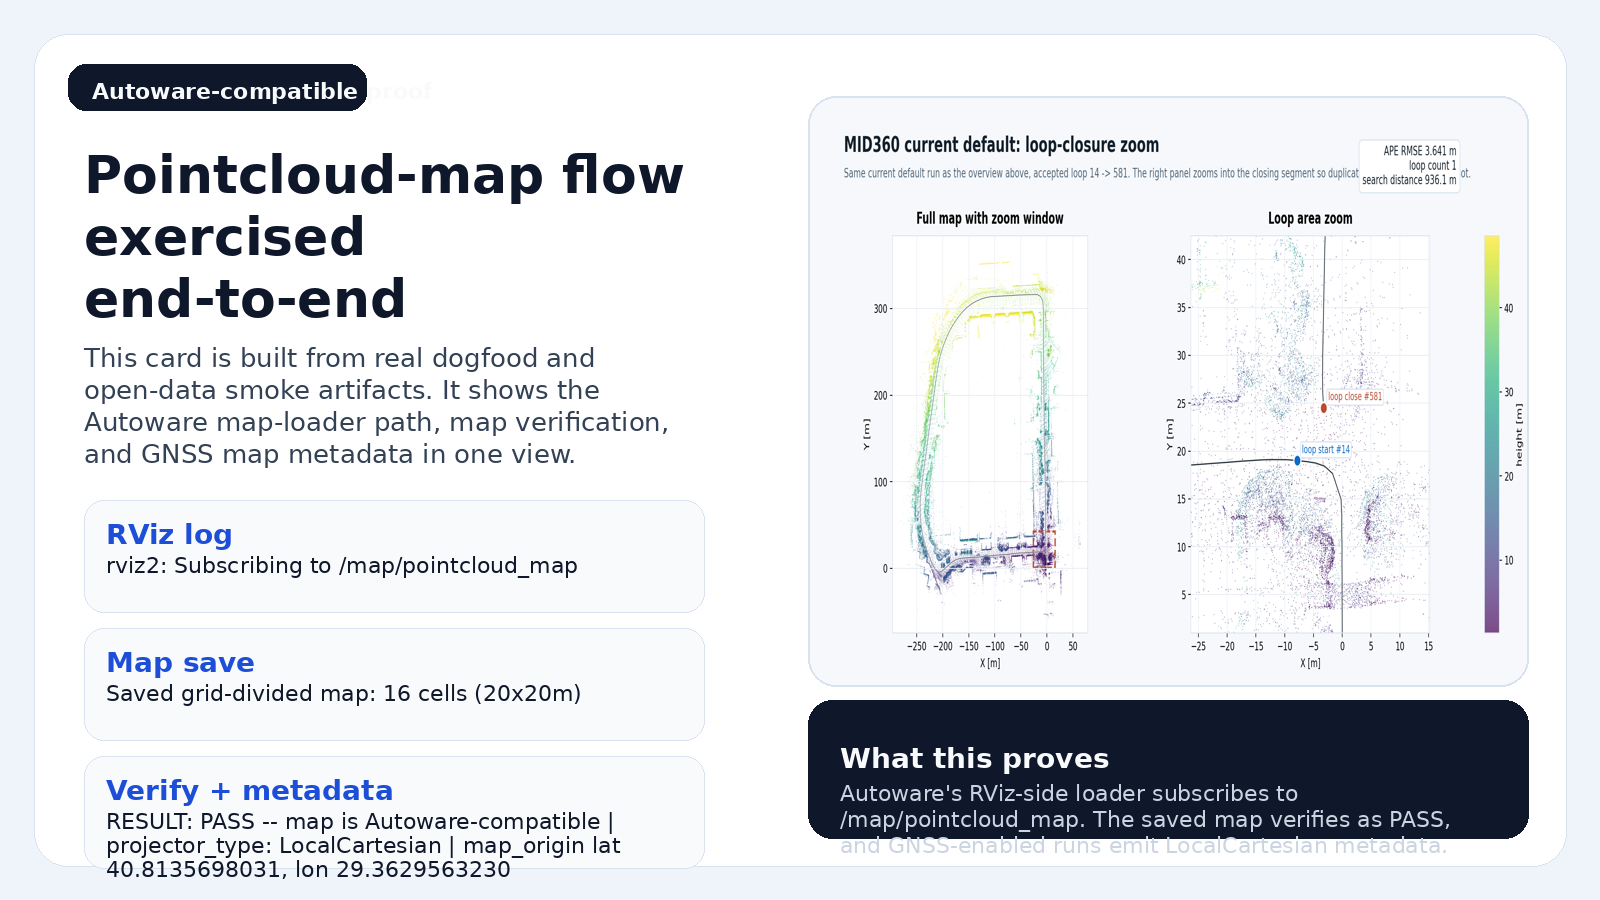
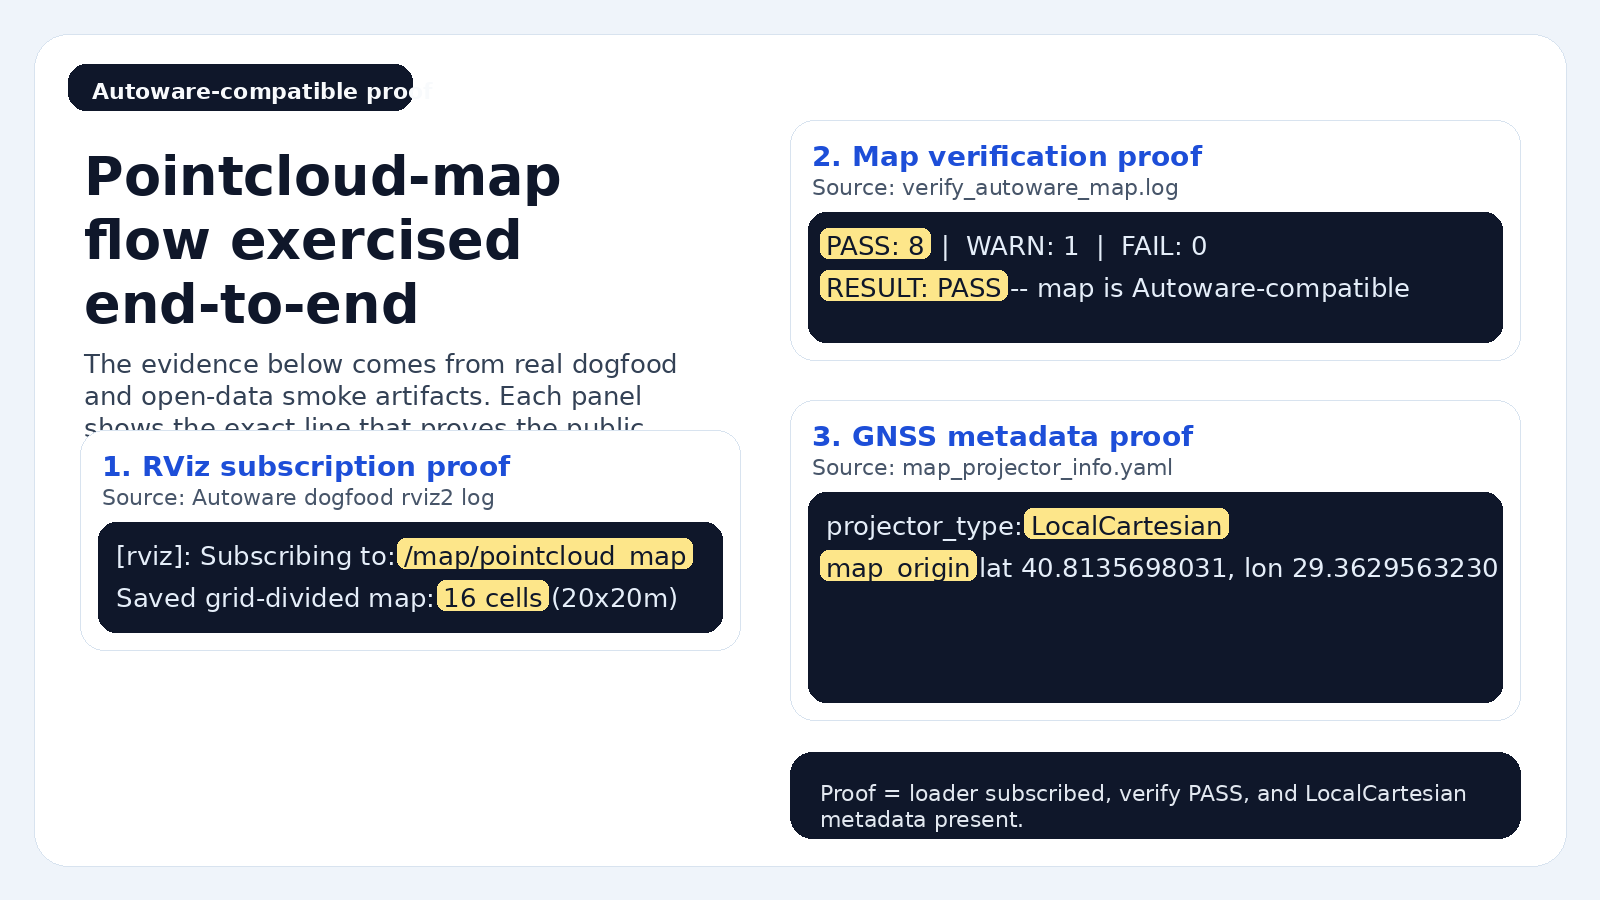
docs: clarify autoware proof image

diff --git a/scripts/generate_readme_autoware_proof_figure.py b/scripts/generate_readme_autoware_proof_figure.py
@@ -98,6 +98,75 @@ def _round_image(image: Image.Image, radius: int) -> Image.Image:
     return image
 
 
+def _draw_highlighted_line(
+    draw: ImageDraw.ImageDraw,
+    xy: tuple[int, int],
+    text: str,
+    font: ImageFont.ImageFont,
+    fill: str,
+    *,
+    highlight: str = "",
+    highlight_fill: str = "#fde68a",
+    highlight_text_fill: str = "#111827",
+    padding_x: int = 6,
+    padding_y: int = 4,
+) -> None:
+    x, y = xy
+    if highlight and highlight in text:
+        prefix, suffix = text.split(highlight, 1)
+        prefix_w = draw.textlength(prefix, font=font)
+        highlight_w = draw.textlength(highlight, font=font)
+        line_h = font.size + padding_y * 2
+        draw.rounded_rectangle(
+            (
+                x + prefix_w - padding_x,
+                y - padding_y + 2,
+                x + prefix_w + highlight_w + padding_x,
+                y + line_h - padding_y - 2,
+            ),
+            radius=8,
+            fill=highlight_fill,
+        )
+        draw.text((x, y), prefix, font=font, fill=fill)
+        draw.text((x + prefix_w, y), highlight, font=font, fill=highlight_text_fill)
+        draw.text((x + prefix_w + highlight_w, y), suffix, font=font, fill=fill)
+        return
+    draw.text((x, y), text, font=font, fill=fill)
+
+
+def _draw_code_panel(
+    draw: ImageDraw.ImageDraw,
+    rect: tuple[int, int, int, int],
+    *,
+    title: str,
+    subtitle: str,
+    lines: list[str],
+    highlights: list[str],
+    title_font: ImageFont.ImageFont,
+    body_font: ImageFont.ImageFont,
+    mono_font: ImageFont.ImageFont,
+) -> None:
+    x1, y1, x2, y2 = rect
+    draw.rounded_rectangle(rect, radius=24, fill="#ffffff", outline="#d8e3ef")
+    draw.text((x1 + 22, y1 + 20), title, font=title_font, fill="#1d4ed8")
+    draw.text((x1 + 22, y1 + 54), subtitle, font=body_font, fill="#475569")
+    code_rect = (x1 + 18, y1 + 92, x2 - 18, y2 - 18)
+    draw.rounded_rectangle(code_rect, radius=18, fill="#0f172a")
+    line_y = code_rect[1] + 18
+    for line, highlight in zip(lines, highlights):
+        _draw_highlighted_line(
+            draw,
+            (code_rect[0] + 18, line_y),
+            line,
+            mono_font,
+            "#e5eef9",
+            highlight=highlight,
+            highlight_fill="#fde68a",
+            highlight_text_fill="#0f172a",
+        )
+        line_y += mono_font.size + 16
+
+
 def _find_rviz_log(dogfood_dir: Path) -> Path:
     candidates = sorted((dogfood_dir / ".ros_log").glob("rviz2_*.log"))
     if not candidates:
@@ -146,7 +215,6 @@ def main() -> None:
     args = parse_args()
     dogfood_dir = Path(args.dogfood_dir).expanduser().resolve()
     gnss_smoke_dir = Path(args.gnss_smoke_dir).expanduser().resolve()
-    loop_zoom_path = Path(args.loop_zoom).expanduser().resolve()
     out_path = Path(args.out).expanduser().resolve()
 
     rviz_line = _extract_subscribe_line(_find_rviz_log(dogfood_dir))
@@ -156,15 +224,15 @@ def main() -> None:
 
     canvas = Image.new("RGB", (1600, 900), "#eff4fa")
     draw = ImageDraw.Draw(canvas)
-    title_font = _load_font(52, bold=True)
+    title_font = _load_font(54, bold=True)
     body_font = _load_font(26)
     body_bold_font = _load_font(28, bold=True)
-    mono_font = _load_font(22)
+    mono_font = _load_font(26)
     small_font = _load_font(22)
     badge_font = _load_font(22, bold=True)
 
     draw.rounded_rectangle((34, 34, 1566, 866), radius=34, fill="#ffffff", outline="#d8e3ef")
-    draw.rounded_rectangle((68, 64, 366, 110), radius=18, fill="#0f172a")
+    draw.rounded_rectangle((68, 64, 412, 110), radius=18, fill="#0f172a")
     draw.text((92, 78), "Autoware-compatible proof", font=badge_font, fill="#f8fafc")
 
     left_x = 84
@@ -181,56 +249,63 @@ def main() -> None:
     y += 12
     y = _draw_wrapped(
         draw,
-        "This card is built from real dogfood and open-data smoke artifacts. It shows the Autoware map-loader path, map verification, and GNSS map metadata in one view.",
+        "The evidence below comes from real dogfood and open-data smoke artifacts. Each panel shows the exact line that proves the public map flow is working.",
         (left_x, y),
-        610,
+        620,
         body_font,
         "#334155",
     )
 
-    box_specs = [
-        ("RViz log", rviz_line),
-        ("Map save", saved_map_line),
-        (
-            "Verify + metadata",
-            f"{verify_line}  |  projector_type: {projector_type}  |  {latlon}",
-        ),
-    ]
-    box_y = y + 30
-    box_w = 620
-    box_h = 112
-    for title, text in box_specs:
-        draw.rounded_rectangle(
-            (left_x, box_y, left_x + box_w, box_y + box_h),
-            radius=20,
-            fill="#f8fafc",
-            outline="#d8e3ef",
-        )
-        draw.text((left_x + 22, box_y + 18), title, font=body_bold_font, fill="#1d4ed8")
-        _draw_wrapped(
-            draw,
-            text,
-            (left_x + 22, box_y + 52),
-            box_w - 44,
-            mono_font,
-            "#0f172a",
-            line_gap=2,
-        )
-        box_y += box_h + 16
-
-    if loop_zoom_path.is_file():
-        loop_zoom = Image.open(loop_zoom_path).convert("RGB").resize((720, 590))
-        loop_zoom = _round_image(loop_zoom, 28)
-        canvas.paste(loop_zoom, (808, 96), loop_zoom)
-        draw.rounded_rectangle((808, 96, 1528, 686), radius=28, outline="#d8e3ef", width=2)
-
-    draw.rounded_rectangle((808, 700, 1528, 838), radius=24, fill="#0f172a")
-    draw.text((840, 742), "What this proves", font=body_bold_font, fill="#f8fafc")
-    footer = (
-        "Autoware's RViz-side loader subscribes to /map/pointcloud_map. "
-        "The saved map verifies as PASS, and GNSS-enabled runs emit LocalCartesian metadata."
+    _draw_code_panel(
+        draw,
+        (80, 430, 740, 650),
+        title="1. RViz subscription proof",
+        subtitle="Source: Autoware dogfood rviz2 log",
+        lines=[
+            "[rviz]: Subscribing to: /map/pointcloud_map",
+            saved_map_line,
+        ],
+        highlights=["/map/pointcloud_map", "16 cells"],
+        title_font=body_bold_font,
+        body_font=small_font,
+        mono_font=mono_font,
     )
-    _draw_wrapped(draw, footer, (840, 780), 650, small_font, "#cbd5e1", line_gap=4)
+
+    _draw_code_panel(
+        draw,
+        (790, 120, 1520, 360),
+        title="2. Map verification proof",
+        subtitle="Source: verify_autoware_map.log",
+        lines=[
+            "PASS: 8  |  WARN: 1  |  FAIL: 0",
+            verify_line,
+        ],
+        highlights=["PASS: 8", "RESULT: PASS"],
+        title_font=body_bold_font,
+        body_font=small_font,
+        mono_font=mono_font,
+    )
+
+    _draw_code_panel(
+        draw,
+        (790, 400, 1520, 720),
+        title="3. GNSS metadata proof",
+        subtitle="Source: map_projector_info.yaml",
+        lines=[
+            f"projector_type: {projector_type}",
+            latlon,
+        ],
+        highlights=[projector_type, "map_origin"],
+        title_font=body_bold_font,
+        body_font=small_font,
+        mono_font=mono_font,
+    )
+
+    draw.rounded_rectangle((790, 752, 1520, 838), radius=22, fill="#0f172a")
+    footer = (
+        "Proof = loader subscribed, verify PASS, and LocalCartesian metadata present."
+    )
+    _draw_wrapped(draw, footer, (820, 780), 660, small_font, "#e2e8f0", line_gap=4)
 
     out_path.parent.mkdir(parents=True, exist_ok=True)
     canvas.save(out_path)
